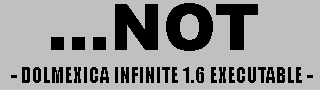
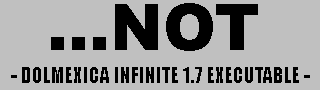
[Release] Dolmexica Infinite Version 1.7 / Dream Fight 21 A.D. + 3

Changed region(s): [[0.5938, 0.7333, 1.0, 0.9333]]

diff --git a/tools/MakeYourOwnGameKitGui/MakeYourOwnGameKitGuiDreamcast/MainWindow.xaml b/tools/MakeYourOwnGameKitGui/MakeYourOwnGameKitGuiDreamcast/MainWindow.xaml
@@ -7,13 +7,16 @@
         mc:Ignorable="d"
         Title="Dolmexica Infinite Make-your-own-game kit for Dreamcast" Height="450" Width="800">
     <Grid>
-        <TextBlock HorizontalAlignment="Left" Margin="41,24,0,0" TextWrapping="Wrap" VerticalAlignment="Top" Height="165" Width="712"><Run Text="To mod the game, change the files in"/><Run Language="en-gb" Text=" the"/><Run Text=" assets"/><Run Language="en-gb" Text=" folder"/><Run Text=" just like you would with Mugen (only difference is that you must avoid minuses in file names)."/><LineBreak/><Run Text="If you want your own IP.BIN data, edit "/><Run Language="en-gb" Text="dreamcast/"/><Run Text="ip/ip.txt"/><LineBreak/><Run Text="If you want your own boot logo at the license screen, edit "/><Run Language="en-gb" Text="dreamcast/"/><Run Text="ip/INSERT.png (just remember you have to use a paletted 320x90 image with no more than 128 colors for that one)"/><Run Language="en-gb" Text="."/><LineBreak/><Run/><LineBreak/><Run Text="Uses cdi4dc by dreamcast legend SiZiOUS (http://sizious.com/), logotools by dreamcast legend "/><LineBreak/><Run Text="ADK/Napalm (http://napalm-x.thegypsy.com/andrewk/dc/) and makeip by dreamcast legend Marcus C. (http://mc.pp.se/dc/sw.html)"/><LineBreak/><Run Text="Feel free to read up on how these programs work, making your own dreamcast disc is always the most fun"/><Run Language="en-gb" Text="."/><LineBreak/><Run/></TextBlock>
+        <TextBlock HorizontalAlignment="Left" Margin="41,24,0,0" TextWrapping="Wrap" VerticalAlignment="Top" Height="218" Width="712"><Run Text="To mod the game, change the files in"/><Run Text=" the"/><Run Text=" assets"/><Run Text=" folder"/><Run Text=" just like you would with Mugen (only difference is that you must avoid minuses in file names)."/><LineBreak/><Run Text="If you want your own IP.BIN data, edit "/><Run Text="dreamcast/"/><Run Text="ip/ip.txt"/><LineBreak/><Run Text="If you want your own boot logo at the license screen, edit "/><Run Text="dreamcast/"/><Run Text="ip/INSERT.png (just remember you have to use a paletted 320x90 image with no more than 128 colors for that one)"/><Run Text="."/><LineBreak/><Run/><LineBreak/><Run Text="The Buffer Audio Track Size can be used to push the game data to the outer part of the CD-R, so the Dreamcast laser can read it faster (which reduces load times). The MB value is converted to sectors, with 2352 bytes per sector (audio padding). Don't worry about this field if you don't know what it means, it's optional."/><LineBreak/><Run/><LineBreak/><Run Text="Uses cdi4dc by dreamcast legend SiZiOUS (http://sizious.com/), logotools by dreamcast legend "/><LineBreak/><Run Text="ADK/Napalm (http://napalm-x.thegypsy.com/andrewk/dc/) and makeip by dreamcast legend Marcus C. (http://mc.pp.se/dc/sw.html)"/><LineBreak/><Run Text="Feel free to read up on how these programs work, making your own dreamcast disc is always the most fun"/><Run Text="."/><LineBreak/><Run/></TextBlock>
 
-        <TextBox HorizontalAlignment="Left" Name="CDLabelName" Height="23" Margin="158,219,0,0" TextWrapping="Wrap" Text="DOLMEXICA_INFINITE_DEMO_X" MaxLength="30" VerticalAlignment="Top" Width="260"/>
-        <TextBlock HorizontalAlignment="Left" Margin="41,220,0,0" TextWrapping="Wrap" Text="CD Label name:" VerticalAlignment="Top"/>
+        <TextBox HorizontalAlignment="Left" Name="CDLabelName" Height="23" Margin="250,254,0,0" TextWrapping="Wrap" Text="DOLMEXICA_INFINITE_DEMO_X" MaxLength="30" VerticalAlignment="Top" Width="260"/>
+        <TextBlock HorizontalAlignment="Left" Margin="151,254,0,0" TextWrapping="Wrap" Text="CD Label name:" VerticalAlignment="Top"/>
 
-        <TextBox HorizontalAlignment="Left" Name="CDIName" Height="23" Margin="158,273,0,0" TextWrapping="Wrap" Text="DolmexicaInfiniteDemoX" VerticalAlignment="Top" Width="260"/>
-        <TextBlock HorizontalAlignment="Left" Margin="70,274,0,0" TextWrapping="Wrap" Text="CDI name:" VerticalAlignment="Top"/>
-        <Button Name="CreateCDIButton" Content="Create CDI" HorizontalAlignment="Left" Margin="343,325,0,0" VerticalAlignment="Top" Width="75" RenderTransformOrigin="0.151,0.473" Click="CreateCDIButton_Click"/>
+        <TextBox HorizontalAlignment="Left" Name="CDIName" Height="23" Margin="250,291,0,0" TextWrapping="Wrap" Text="DolmexicaInfiniteDemoX" VerticalAlignment="Top" Width="260"/>
+        <TextBlock HorizontalAlignment="Left" Margin="179,290,0,0" TextWrapping="Wrap" Text="CDI name:" VerticalAlignment="Top"/>
+        <Button Name="CreateCDIButton" Content="Create CDI" HorizontalAlignment="Left" Margin="343,374,0,0" VerticalAlignment="Top" Width="75" RenderTransformOrigin="0.151,0.473" Click="CreateCDIButton_Click"/>
+
+        <TextBlock HorizontalAlignment="Left" Margin="69,329,0,0" TextWrapping="Wrap" Text="Buffer Audio Track Size (in MB):" VerticalAlignment="Top"/>
+        <TextBox HorizontalAlignment="Left" x:Name="BufferSizeMb" Height="23" Margin="250,329,0,0" TextWrapping="Wrap" Text="0" VerticalAlignment="Top" Width="260"/>
     </Grid>
 </Window>

diff --git a/docs/history.html b/docs/history.html
@@ -174,6 +174,25 @@ code, tt {
 <div class="document" id="m-u-g-e-n-update-history">
 <h1 class="title">Dolmexica Infinite Update History</h1>
 <p>Updates shown are in order of most recent to least recent.</p>
+<div class="section" id="new-in-1-7">
+  <h1>New in 1.7</h1>
+  <p>09 September 2025</p>
+  <div class="section" id="general">
+  <h2>General updates</h2>
+  <ul class="simple">
+  <li>Feature: [Dreamcast] Set custom size for audio track in CDI generation (for padding).</li>
+  <li>Bugfix: [General] SFFv2 files will use the alpha in their palette entries when the first palette entry is not the palette's alpha entry.</li>
+  <li>Bugfix: [General] SFFv2 files with paletted PNG files and bit depth 8 will use the palettes from the SFF instead of the PNG palette now.</li>
+  <li>Bugfix: [General] Stages with coordinates that are not in 4:3 resolution will be adjusted to fit 4:3. For example, 1920x1080 will become 1440x1080. This makes widescreen stages work better.</li>
+  <li>Bugfix: [General] Scrolling in hi-res stages should work again now.</li>
+  <li>Bugfix: [General] font/f-4x6.fnt will be tried to be loaded as a default font if font/f4x6.fnt was not found (Just keep in mind Dreamcast games do not support minuses in their names). If neither is present, the first font in the system.def becomes the system font.</li>
+  <li>Bugfix: [General] Characters that do not define a displayname will fall back to their name parameter for that now.</li>
+  <li>Bugfix: [General] If characters try to use a palette file that does not exist, the palette file will be ignored.</li>
+  <li>Bugfix: [General] Backslashes in select.def stage paths are treated as forward slashes now and will no longer cause issues.</li>
+  <li>Bugfix: [General] Fix for rare potential crash with repeating group names plus group names with decreasing numbers at the end.</li>
+  </ul>
+  </div>
+  </div>
 <div class="section" id="new-in-1-6">
   <h1>New in 1.6</h1>
   <p>27 December 2024</p>

diff --git a/docs/dolmexica.html b/docs/dolmexica.html
@@ -157,9 +157,9 @@ code, tt {
 
 <body>
 
-<center><font size=+3>Dolmexica Infinite<br>1.6</font><br>
+<center><font size=+3>Dolmexica Infinite<br>1.7</font><br>
 <br>
-presented by Dogma 2018-2023<br><br>
+presented by Dogma 2018-2025<br><br>
 <a href="http://dogmacompany.com">dogmacompany.com</a>
 </center>
 

diff --git a/dolmexicastoryscreen.cpp b/dolmexicastoryscreen.cpp
@@ -53,6 +53,9 @@ static struct {
 	int mHasFonts;
 
 	map<int, StoryInstance> mHelperInstances;
+
+	int mDebugStartState;
+	int mDebugStartStateFrom;
 } gDolmexicaStoryScreenData;
 
 #ifdef _WIN32
@@ -1220,12 +1223,20 @@ int getDolmexicaStoryTextIDFromName(StoryInstance* tInstance, const std::string&
 
 void changeDolmexicaStoryState(StoryInstance* tInstance, int tNextState)
 {
+	if(gDolmexicaStoryScreenData.mDebugStartState && getDolmexicaStoryStateNumber(tInstance) == gDolmexicaStoryScreenData.mDebugStartStateFrom && tInstance == getDolmexicaStoryRootInstance())
+	{
+		tNextState = gDolmexicaStoryScreenData.mDebugStartState;
+	}
 	changeDreamHandledStateMachineState(tInstance->mRegisteredStateMachine, tNextState);
 	setDreamRegisteredStateTimeInState(tInstance->mRegisteredStateMachine, 0);
 }
 
 void changeDolmexicaStoryStateOutsideStateHandler(StoryInstance* tInstance, int tNextState)
 {
+	if(gDolmexicaStoryScreenData.mDebugStartState && getDolmexicaStoryStateNumber(tInstance) == gDolmexicaStoryScreenData.mDebugStartStateFrom && tInstance == getDolmexicaStoryRootInstance())
+	{
+		tNextState = gDolmexicaStoryScreenData.mDebugStartState;
+	}
 	changeDreamHandledStateMachineState(tInstance->mRegisteredStateMachine, tNextState);
 	setDreamRegisteredStateTimeInState(tInstance->mRegisteredStateMachine, -1);
 }
@@ -1351,7 +1362,7 @@ void addDolmexicaStoryCharacter(StoryInstance* tInstance, int tID, const char* t
 		removeDolmexicaStoryCharacter(tInstance, tID);
 	}
 
-	StoryCharacter e;
+	StoryCharacter& e = tInstance->mStoryCharacters[tID];
 	e.mName = tName;
 
 	char file[1024];
@@ -1369,6 +1380,10 @@ void addDolmexicaStoryCharacter(StoryInstance* tInstance, int tID, const char* t
 	getMugenDefStringOrDefault(file, &script, "files", name, "");
 	int hasPalettePath = strcmp("", file);
 	sprintf(palettePath, "%s%s", path, file);
+	if(!isFile(palettePath)){
+		logErrorFormat("Unable to find palette file %s. Ignoring.", palettePath);
+		hasPalettePath = 0;
+	}
 	getMugenDefStringOrDefault(file, &script, "files", "sprite", "");
 	sprintf(fullPath, "%s%s", path, file);
 
@@ -1378,13 +1393,12 @@ void addDolmexicaStoryCharacter(StoryInstance* tInstance, int tID, const char* t
 	sprintf(fullPath, "%s%s", path, file);
 	if (!isFile(fullPath)) {
 		logWarningFormat("Unable to load animation file %s from def file %s. Ignoring.", fullPath, tName);
+		tInstance->mStoryCharacters.erase(tID);
 		return;
 	}
 	e.mAnimations = loadMugenAnimationFile(fullPath);
 
 	unloadMugenDefScript(&script);
-
-	tInstance->mStoryCharacters[tID] = e;
 
 	const auto z = DOLMEXICA_STORY_ANIMATION_BASE_Z + tID * DOLMEXICA_STORY_ID_Z_FACTOR;
 	initDolmexicaStoryAnimation(tInstance->mStoryCharacters[tID].mAnimation, tID, tAnimation, tPosition.xyz(z), &tInstance->mStoryCharacters[tID].mSprites, &tInstance->mStoryCharacters[tID].mAnimations);
@@ -1723,4 +1737,10 @@ void setDolmexicaStoryCameraZoom(double tScale)
 int getDolmexicaStoryCoordinateP()
 {
 	return COORD_P;
+}
+
+void setDolmexicaStoryDebugStartState(int tFromState, int tDebugStartState)
+{
+	gDolmexicaStoryScreenData.mDebugStartStateFrom = tFromState;
+	gDolmexicaStoryScreenData.mDebugStartState = tDebugStartState;
 }

diff --git a/stage.cpp b/stage.cpp
@@ -221,6 +221,15 @@ static void loadStageBound(MugenDefScript* s) {
 	gStageData.mBound.mScreenRight = getMugenDefFloatOrDefault(s, "bound", "screenright", 0);
 }
 
+static void sanitizeLocalCoordinates()
+{
+	if ((gStageData.mStageInfo.mLocalCoordinates.y * 4) / 3 != gStageData.mStageInfo.mLocalCoordinates.x)
+	{
+		logWarningFormat("Unsupported coordinate system %d %d, adjusting width to 4:3 resolution", gStageData.mStageInfo.mLocalCoordinates.x, gStageData.mStageInfo.mLocalCoordinates.y);
+		gStageData.mStageInfo.mLocalCoordinates.x = (gStageData.mStageInfo.mLocalCoordinates.y * 4) / 3;
+	}
+}
+
 static void loadStageStageInfo(MugenDefScript* s) {
 	gStageData.mStageInfo.mZOffset = getMugenDefFloatOrDefault(s, "stageinfo", "zoffset", 0);
 	gStageData.mStageInfo.mHasZOffsetLink = isMugenDefNumberVariable(s, "stageinfo", "zoffsetlink");
@@ -242,6 +251,7 @@ static void loadStageStageInfo(MugenDefScript* s) {
 			gStageData.mStageInfo.mZOffset *= 2; // based on tekken vs street fighter sfxtk stages among others
 		}
 	}
+	sanitizeLocalCoordinates();
 
 	gStageData.mStageInfo.mScale.x = getMugenDefFloatOrDefault(s, "stageinfo", "xscale", 1);
 	gStageData.mStageInfo.mScale.y = getMugenDefFloatOrDefault(s, "stageinfo", "yscale", 1);
@@ -480,7 +490,7 @@ static void loadStageBackgroundDefinitionAndElements(char* tPath, MugenDefScript
 static void setStageCamera() {
 	double sizeX = gStageData.mCamera.mBoundRight - gStageData.mCamera.mBoundLeft;
 	double sizeY = gStageData.mCamera.mBoundLow - gStageData.mCamera.mBoundHigh;
-	setDreamMugenStageHandlerCameraRange(GeoRectangle2D(gStageData.mCamera.mBoundLeft, gStageData.mCamera.mBoundHigh, sizeX, sizeY));
+	setDreamMugenStageHandlerCameraRange(transformDreamCoordinatesGeoRectangle2D(GeoRectangle2D(gStageData.mCamera.mBoundLeft, gStageData.mCamera.mBoundHigh, sizeX, sizeY), gStageData.mStageInfo.mLocalCoordinates.x, getDreamMugenStageHandlerCameraCoordinateP()));
 }
 
 static void loadStage(void* tData)
@@ -566,10 +576,12 @@ static void updateCameraMovementX() {
 
 	if (lx <= 0 && rx > 0) {
 		double delta = min(rx, -lx);
+		delta = transformDreamCoordinates(delta, gStageData.mStageInfo.mLocalCoordinates.x, getDreamMugenStageHandlerCameraCoordinateP());
 		addDreamMugenStageHandlerCameraPositionX(delta);
 	}
 	else if (lx > 0 && rx <= 0) {
 		double delta = min(lx, -rx);
+		delta = transformDreamCoordinates(delta, gStageData.mStageInfo.mLocalCoordinates.x, getDreamMugenStageHandlerCameraCoordinateP());
 		addDreamMugenStageHandlerCameraPositionX(-delta);
 	}
 }
@@ -619,7 +631,9 @@ ActorBlueprint getDreamStageBP() {
 
 void setDreamStageMugenDefinition(const char * tPath, const char* tCustomMusicPath)
 {
-	strcpy(gStageData.mDefinitionPath, tPath);
+	std::string sanitizedPath = tPath ? tPath : "";
+	cleanPathSlashes(sanitizedPath);
+	strcpy(gStageData.mDefinitionPath, sanitizedPath.c_str());
 	strcpy(gStageData.mCustomMusicPath, tCustomMusicPath);
 }
 

diff --git a/victoryquotescreen.cpp b/victoryquotescreen.cpp
@@ -11,6 +11,7 @@
 #include <prism/mugentexthandler.h>
 #include <prism/input.h>
 #include <prism/geometry.h>
+#include <prism/log.h>
 
 #include "config.h"
 #include "playerdefinition.h"
@@ -157,12 +158,24 @@ static void loadPlayerAnimationsAndName(MugenDefScript* tPlayerScript, const cha
 	getMugenDefStringOrDefault(file, tPlayerScript, "files", name, "");
 	int hasPalettePath = strcmp("", file);
 	sprintf(palettePath, "%s%s", tPath, file);
-
+	if(!isFile(palettePath)){
+		logErrorFormat("Unable to find palette file %s. Ignoring.", palettePath);
+		hasPalettePath = 0;
+	}
+	
 	getMugenDefStringOrDefault(file, tPlayerScript, "files", "sprite", "");
 	assert(strcmp("", file));
 	sprintf(scriptPath, "%s%s", tPath, file);
 	gVictoryQuoteScreenData.mPlayer.mSprites = loadMugenSpriteFilePortraits(scriptPath, hasPalettePath, palettePath);
-	const auto playerName = getSTLMugenDefStringVariable(tPlayerScript, "info", "displayname");
+	std::string playerName;
+	if (isMugenDefStringVariable(tPlayerScript, "info", "displayname"))
+	{
+		playerName = getSTLMugenDefStringVariable(tPlayerScript, "info", "displayname");
+	}
+	else
+	{
+		playerName = getSTLMugenDefStringVariable(tPlayerScript, "info", "name");
+	}
 
 	auto pos = gVictoryQuoteScreenData.mHeader.mPlayer.mOffset;
 	pos.z = VICTORY_QUOTE_SCREEN_PLAYER_IMAGE_Z;

diff --git a/dolmexicadebug.cpp b/dolmexicadebug.cpp
@@ -20,6 +20,7 @@
 #include "randomwatchmode.h"
 #include "config.h"
 #include "mugenstatehandler.h"
+#include "dolmexicastoryscreen.h"
 
 typedef struct {
 	int mPreviousValue;
@@ -604,6 +605,26 @@ static std::string airJumpCB(void* /*tCaller*/, const std::string& tCommand) {
 	return "";
 }
 
+static std::string setDebugStateCB(void* /*tCaller*/, const std::string& tCommand) {
+	const auto words = splitCommandString(tCommand);
+	int debugStartState = 0;
+	int fromState = 0; 
+	if(words.size() >= 3)
+	{
+		fromState = atoi(words[2].c_str());
+	}
+	if (words.size() < 2) 
+	{
+		debugStartState = getDolmexicaStoryStateNumber(getDolmexicaStoryRootInstance());
+	}
+	else
+	{
+		debugStartState = atoi(words[1].c_str());
+	}
+	setDolmexicaStoryDebugStartState(fromState, debugStartState);
+	return "";
+}
+
 void initDolmexicaDebug()
 {
 	gDolmexicaDebugData = new DolmexicaDebugData();
@@ -637,6 +658,7 @@ void initDolmexicaDebug()
 	addPrismDebugConsoleCommand("fullstagetest", fullStageTestCB);
 	addPrismDebugConsoleCommand("randomseed", randomSeedCB);
 	addPrismDebugConsoleCommand("airjump", airJumpCB);
+	addPrismDebugConsoleCommand("setdebugstate", setDebugStateCB);
 }
 
 static void loadDolmexicaDebugHandler(void* tData) {

diff --git a/versusscreen.cpp b/versusscreen.cpp
@@ -9,6 +9,7 @@
 #include <prism/timer.h>
 #include <prism/mugentexthandler.h>
 #include <prism/clipboardhandler.h>
+#include <prism/log.h>
 
 #include "mugensound.h"
 #include "scriptbackground.h"
@@ -82,12 +83,23 @@ static void loadPlayerAnimationsAndName(int i) {
 	getMugenDefStringOrDefault(file, &script, "files", name, "");
 	int hasPalettePath = strcmp("", file);
 	sprintf(palettePath, "%s%s", path, file);
+	if(!isFile(palettePath)){
+		logErrorFormat("Unable to find palette file %s. Ignoring.", palettePath);
+		hasPalettePath = 0;
+	}
 
 	getMugenDefStringOrDefault(file, &script, "files", "sprite", "");
 	assert(strcmp("", file));
 	sprintf(scriptPath, "%s%s", path, file);
 	player->mSprites = loadMugenSpriteFilePortraits(scriptPath, hasPalettePath, palettePath);
-	player->mDisplayCharacterName = getAllocatedMugenDefStringVariable(&script, "info", "displayname");
+	if (isMugenDefStringVariable(&script, "info", "displayname"))
+	{
+		player->mDisplayCharacterName = getAllocatedMugenDefStringVariable(&script, "info", "displayname");
+	}
+	else
+	{
+		player->mDisplayCharacterName = getAllocatedMugenDefStringVariable(&script, "info", "name");
+	}
 
 	unloadMugenDefScript(&script);
 

diff --git a/characterselectscreen.cpp b/characterselectscreen.cpp
@@ -523,6 +523,10 @@ static int loadMenuCharacterSpritesAndNameAndReturnWhetherExists(SelectCharacter
 			getMugenDefStringOrDefault(file, &script, "files", name, "");
 			int hasPalettePath = strcmp("", file);
 			sprintf(palettePath, "%s%s", path, file);
+			if(!isFile(palettePath)){
+				logErrorFormat("Unable to find palette file %s. Ignoring.", palettePath);
+				hasPalettePath = 0;
+			}
 
 			getMugenDefStringOrDefault(file, &script, "files", "sprite", "");
 			assert(strcmp("", file));
@@ -536,7 +540,14 @@ static int loadMenuCharacterSpritesAndNameAndReturnWhetherExists(SelectCharacter
 			}
 		}
 
-		e.mDisplayCharacterName = getAllocatedMugenDefStringVariable(&script, "info", "displayname");
+		if (isMugenDefStringVariable(&script, "info", "displayname"))
+		{
+			e.mDisplayCharacterName = getAllocatedMugenDefStringVariable(&script, "info", "displayname");
+		}
+		else
+		{
+			e.mDisplayCharacterName = getAllocatedMugenDefStringVariable(&script, "info", "name");
+		}
 
 		loadMenuCharacterCredits(e, &script);
 		

diff --git a/config.cpp b/config.cpp
@@ -292,7 +292,16 @@ static std::string findFontPath(const std::string& tFile, const std::string& tFo
 }
 
 static void loadMugenFontsFromScript(MugenDefScript* tScript, const char* tGroupName, const std::string& tFolder) {
-	addMugenFont(-1, "font/f4x6.fnt");
+	auto hasDefaultFont = false;
+	const auto potentialDefaultFonts = { "font/f4x6.fnt", "font/f-4x6.fnt" };
+	for (auto& potentialDefaultFont : potentialDefaultFonts) {
+		const auto testPath = findFontPath(potentialDefaultFont, "");
+		if (isFile(testPath)) {
+			addMugenFont(-1, testPath.c_str());
+			hasDefaultFont = true;
+			break;
+		}
+	}
 
 	int i;
 	for (i = 0; i < 100; i++) {
@@ -302,6 +311,11 @@ static void loadMugenFontsFromScript(MugenDefScript* tScript, const char* tGroup
 			auto file = getSTLMugenDefStringVariable(tScript, tGroupName, name);
 			file = findFontPath(file, tFolder);
 			addMugenFont(i, file.c_str());
+			if(!hasDefaultFont)
+			{
+				addMugenFont(-1, file.c_str());
+				hasDefaultFont = true;
+			}
 		}
 	}
 }

diff --git a/titlescreen.cpp b/titlescreen.cpp
@@ -346,9 +346,9 @@ static void loadCredits() {
 	setAnimationSize(gTitleScreenData.mCreditBGAnimationElement, Vector3D(320, 20, 1), Vector3D(0, 0, 0));
 	setAnimationColor(gTitleScreenData.mCreditBGAnimationElement, 0, 0, 0.5);
 
-	gTitleScreenData.mLeftCreditTextID = addMugenText("Dolmexica Infinite 1.6", Vector3D(0, 240, 51), -1);
+	gTitleScreenData.mLeftCreditTextID = addMugenText("Dolmexica Infinite 1.7", Vector3D(0, 240, 51), -1);
 	
-	gTitleScreenData.mRightCreditTextID = addMugenText("12/27/24 Presented by Dogma", Vector3D(320, 240, 51), -1);
+	gTitleScreenData.mRightCreditTextID = addMugenText("09/09/25 Presented by Dogma", Vector3D(320, 240, 51), -1);
 	setMugenTextAlignment(gTitleScreenData.mRightCreditTextID, MUGEN_TEXT_ALIGNMENT_RIGHT);
 }
 

diff --git a/tools/MakeYourOwnGameKitGui/MakeYourOwnGameKitGuiDreamcast/MainWindow.xaml.cs b/tools/MakeYourOwnGameKitGui/MakeYourOwnGameKitGuiDreamcast/MainWindow.xaml.cs
@@ -28,7 +28,9 @@ namespace MakeYourOwnGameKitGuiDreamcast
 
         private void CreateCDIButton_Click(object sender, RoutedEventArgs e)
         {
-            var command = "make_cdi.bat " + CDLabelName.Text + " " + CDIName.Text;
+            var byteCountAudio = UInt64.Parse(BufferSizeMb.Text) * 1024 * 1024;
+            var sectorsAudio = Math.Max((ulong)Math.Ceiling(byteCountAudio / 2352.0), 302u);
+            var command = "make_cdi.bat " + CDLabelName.Text + " " + CDIName.Text + " " + sectorsAudio.ToString();
             var processInfo = new ProcessStartInfo("cmd.exe", "/c " + command);
             processInfo.WorkingDirectory = "dreamcast";
             var process = Process.Start(processInfo);
